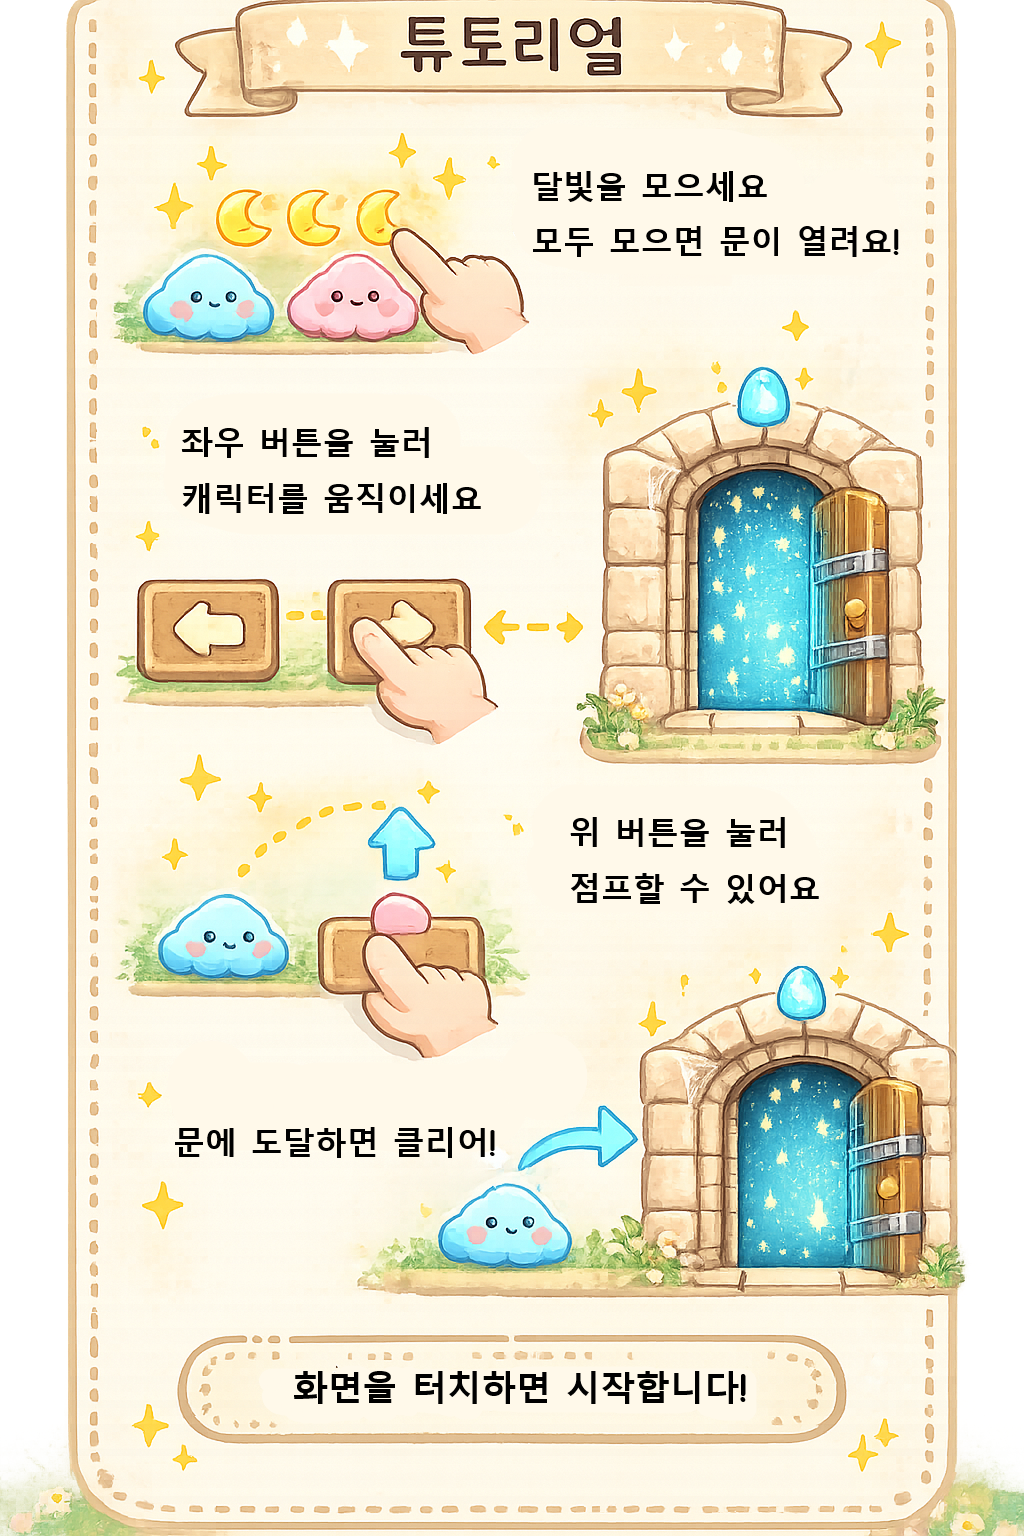
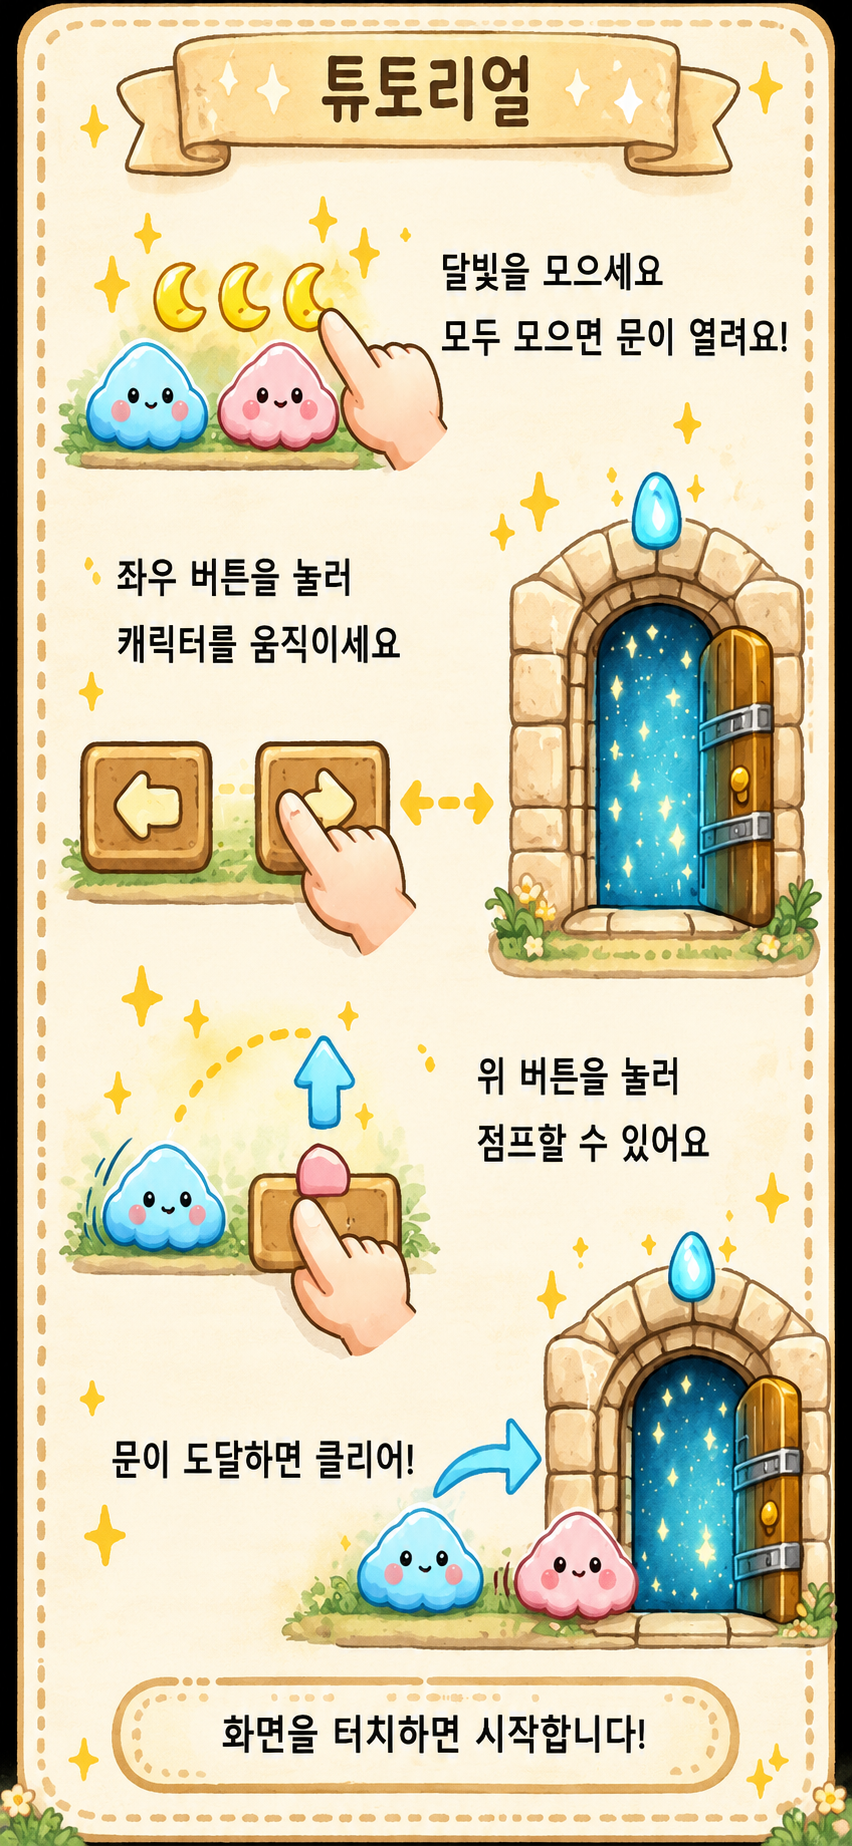
refactor: 튜토리얼 창 비율 조정

diff --git a/phaser_game/src/scenes/Level.ts b/phaser_game/src/scenes/Level.ts
@@ -136,7 +136,7 @@ export default class Level extends Phaser.Scene {
 		);
 
 		this.tutorialOverlay.setDepth(1000);
-		this.tutorialOverlay.setDisplaySize(390, 720);
+		this.tutorialOverlay.setDisplaySize(420, 720);
 		this.tutorialOverlay.setInteractive();
 
 		this.tutorialOverlay.on("pointerdown", () => {

diff --git a/phaser_game/src/main.ts b/phaser_game/src/main.ts
@@ -22,10 +22,10 @@ window.addEventListener("load", function () {
     height: 844,
     backgroundColor: "#2f2f2f",
     parent: "game-container",
-
+    
     pixelArt: true,
     antialias: false,
-
+    roundPixels: true,
     physics: {
       default: "arcade",
       arcade: {
